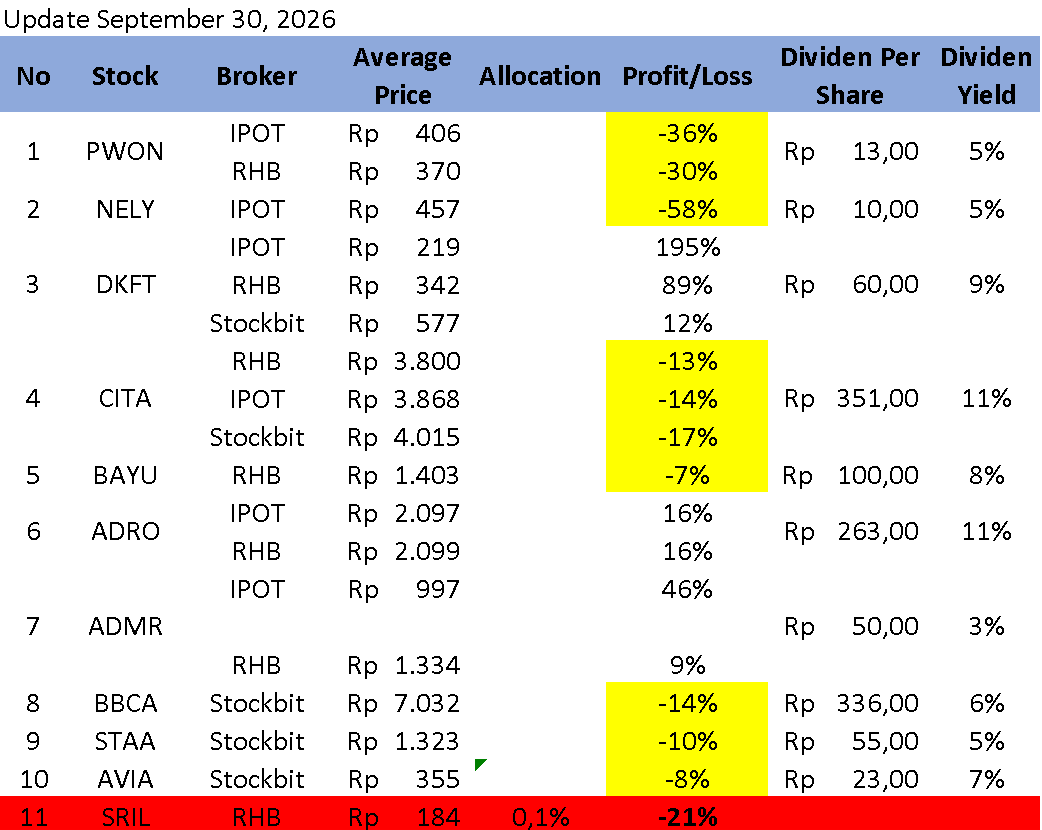
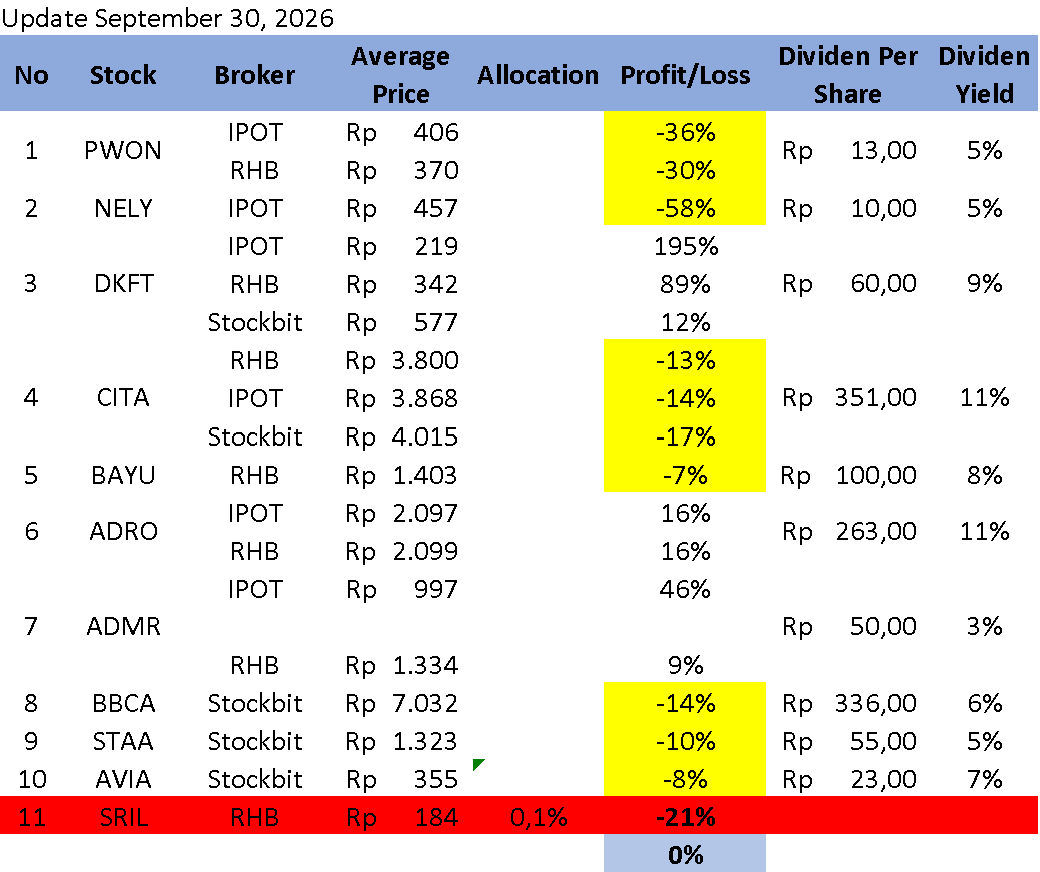
fix: update Q3 2026 portfolio image with blended 0% total return row
The table image gained a summary row showing overall portfolio return
at a flat 0% as of September 30 (winners, losers, and the SRIL
write-down netted together). Added a cache-bust query param to the
image src so the new version isn't served stale from browser cache,
and worked the 0% figure into both language versions of the narrative.

diff --git a/portfolio-update-q3-2026.html b/portfolio-update-q3-2026.html
@@ -170,13 +170,13 @@
                         <p>The IHSG closed September 30 at 6,071, still down 29.79 percent year to date, the worst performance in Asia Pacific for the period. But look at the quarter on its own, not the year, and the picture changes: from 5,643 at the end of June to 6,071 at the end of September is a gain of roughly 7.6 percent in three months, even after a sharp correction hit the market in September itself. Technology was the weakest sector that day, down 2.76 percent, while industrials actually gained 1.17 percent. Deep in the red for the year, genuinely green for the quarter. Both things are true at once, and my portfolio reflects exactly that split.</p>
 
                         <figure>
-                            <img src="images/septemberq3.png" alt="Portfolio table as of September 30, 2026" class="crisp-image">
+                            <img src="images/septemberq3.png?v=2" alt="Portfolio table as of September 30, 2026" class="crisp-image">
                             <figcaption>Updated September 30, 2026</figcaption>
                         </figure>
 
-                        <p>Compared to the end of Q2, almost every losing position narrowed. PWON went from -42% and -36% to -36% and -30%. CITA improved from around -22% to -26% across its three brokers to a tighter -13% to -17%. BBCA cut its loss from -20% to -14%, STAA from -23% to -10%, and BAYU from -21% to just -7%. On the winning side, DKFT and ADRO simply kept compounding, DKFT now showing gains as high as 195% on its oldest lot, and ADRO up to 16% across both brokers. AVIA is a new addition to the table this quarter, currently at -8%. SRIL is still the one exception, unchanged at -21% and still flagged red, a reminder that a market-wide rebound does not rescue every name equally.</p>
+                        <p>Compared to the end of Q2, almost every losing position narrowed. PWON went from -42% and -36% to -36% and -30%. CITA improved from around -22% to -26% across its three brokers to a tighter -13% to -17%. BBCA cut its loss from -20% to -14%, STAA from -23% to -10%, and BAYU from -21% to just -7%. On the winning side, DKFT and ADRO simply kept compounding, DKFT now showing gains as high as 195% on its oldest lot, and ADRO up to 16% across both brokers. AVIA is a new addition to the table this quarter, currently at -8%. SRIL is still the one exception, unchanged at -21% and still flagged red, a reminder that a market-wide rebound does not rescue every name equally. Blend all of it together, winners, losers, and the SRIL write-down, and the table's own summary line puts the portfolio's overall return at a flat 0% as of September 30, which is a fair description of a quarter spent clawing back to breakeven rather than running ahead.</p>
 
-                        <p>None of this changes the plan. A 7.6 percent quarterly bounce inside a year that is still down almost 30 percent is not a reason to declare victory, and a single bad name like SRIL is not a reason to panic either. I am still holding quality, still buying with discipline, and still letting dividends and time do the quiet part of the work.</p>
+                        <p>None of this changes the plan. A 7.6 percent quarterly bounce inside a year that is still down almost 30 percent is not a reason to declare victory, a flat 0% blended return is not a reason to despair, and a single bad name like SRIL is not a reason to panic either. I am still holding quality, still buying with discipline, and still letting dividends and time do the quiet part of the work.</p>
 
                         <div class="portfolio-disclaimer">
                             <p>This reflects my personal investment decision and perspective. It is not intended as investment advice or a recommendation to buy, sell, or hold any securities. Investing in the capital market involves significant risks, including the potential loss of capital. Each investor should conduct their own research and make decisions according to their individual risk tolerance and financial circumstances.</p>
@@ -188,13 +188,13 @@
                         <p>IHSG ditutup di level 6.071 pada 30 September, masih turun 29,79 persen secara year to date, performa terburuk di kawasan Asia Pasifik untuk periode itu. Tapi kalau dilihat per kuartal saja, bukan per tahun, gambarannya berubah: dari 5.643 di akhir Juni menjadi 6.071 di akhir September berarti kenaikan sekitar 7,6 persen dalam tiga bulan, bahkan setelah ada koreksi tajam di bulan September itu sendiri. Sektor teknologi paling tertekan hari itu, turun 2,76 persen, sementara sektor industri justru naik 1,17 persen. Merah pekat untuk setahun, hijau sungguhan untuk kuartal ini. Keduanya benar secara bersamaan, dan portofolio saya mencerminkan persis pembelahan itu.</p>
 
                         <figure>
-                            <img loading="lazy" decoding="async" src="images/septemberq3.png" alt="Tabel portofolio per 30 September 2026" class="crisp-image">
+                            <img loading="lazy" decoding="async" src="images/septemberq3.png?v=2" alt="Tabel portofolio per 30 September 2026" class="crisp-image">
                             <figcaption>Update 30 September 2026</figcaption>
                         </figure>
 
-                        <p>Dibandingkan akhir Q2, hampir semua posisi yang merugi mengecil kerugiannya. PWON membaik dari -42% dan -36% menjadi -36% dan -30%. CITA membaik dari kisaran -22% sampai -26% di tiga brokernya menjadi -13% sampai -17%. BBCA memangkas kerugian dari -20% menjadi -14%, STAA dari -23% menjadi -10%, dan BAYU dari -21% menjadi tinggal -7%. Di sisi yang untung, DKFT dan ADRO terus bertumbuh, DKFT bahkan menunjukkan keuntungan hingga 195% pada lot tertuanya, dan ADRO naik sampai 16% di kedua brokernya. AVIA menjadi posisi baru di tabel kuartal ini, saat ini berada di -8%. SRIL masih menjadi satu-satunya pengecualian, tidak berubah di -21% dan masih ditandai merah, pengingat bahwa pemulihan pasar secara luas tidak menyelamatkan semua saham secara merata.</p>
+                        <p>Dibandingkan akhir Q2, hampir semua posisi yang merugi mengecil kerugiannya. PWON membaik dari -42% dan -36% menjadi -36% dan -30%. CITA membaik dari kisaran -22% sampai -26% di tiga brokernya menjadi -13% sampai -17%. BBCA memangkas kerugian dari -20% menjadi -14%, STAA dari -23% menjadi -10%, dan BAYU dari -21% menjadi tinggal -7%. Di sisi yang untung, DKFT dan ADRO terus bertumbuh, DKFT bahkan menunjukkan keuntungan hingga 195% pada lot tertuanya, dan ADRO naik sampai 16% di kedua brokernya. AVIA menjadi posisi baru di tabel kuartal ini, saat ini berada di -8%. SRIL masih menjadi satu-satunya pengecualian, tidak berubah di -21% dan masih ditandai merah, pengingat bahwa pemulihan pasar secara luas tidak menyelamatkan semua saham secara merata. Kalau semuanya digabung, yang untung, yang rugi, dan write-down SRIL, baris ringkasan di tabel menunjukkan total return portofolio secara keseluruhan ada di angka datar 0% per 30 September, yang cukup pas menggambarkan satu kuartal yang dihabiskan untuk merangkak kembali ke titik impas, bukan melesat maju.</p>
 
-                        <p>Tidak ada yang berubah dari rencananya. Kenaikan 7,6 persen dalam satu kuartal di tengah tahun yang masih minus hampir 30 persen bukan alasan untuk merayakan kemenangan, dan satu saham bermasalah seperti SRIL juga bukan alasan untuk panik. Saya tetap memegang saham berkualitas, tetap membeli dengan disiplin, dan tetap membiarkan dividen serta waktu mengerjakan bagian yang senyap.</p>
+                        <p>Tidak ada yang berubah dari rencananya. Kenaikan 7,6 persen dalam satu kuartal di tengah tahun yang masih minus hampir 30 persen bukan alasan untuk merayakan kemenangan, total return 0% juga bukan alasan untuk berkecil hati, dan satu saham bermasalah seperti SRIL juga bukan alasan untuk panik. Saya tetap memegang saham berkualitas, tetap membeli dengan disiplin, dan tetap membiarkan dividen serta waktu mengerjakan bagian yang senyap.</p>
 
                         <div class="portfolio-disclaimer">
                             <p>Tulisan ini mencerminkan keputusan dan perspektif investasi pribadi saya. Ini tidak dimaksudkan sebagai saran investasi atau rekomendasi untuk membeli, menjual, atau menahan efek apa pun. Berinvestasi di pasar modal melibatkan risiko signifikan, termasuk potensi kerugian modal. Setiap investor harus melakukan riset sendiri dan membuat keputusan sesuai toleransi risiko dan kondisi keuangan masing-masing.</p>
